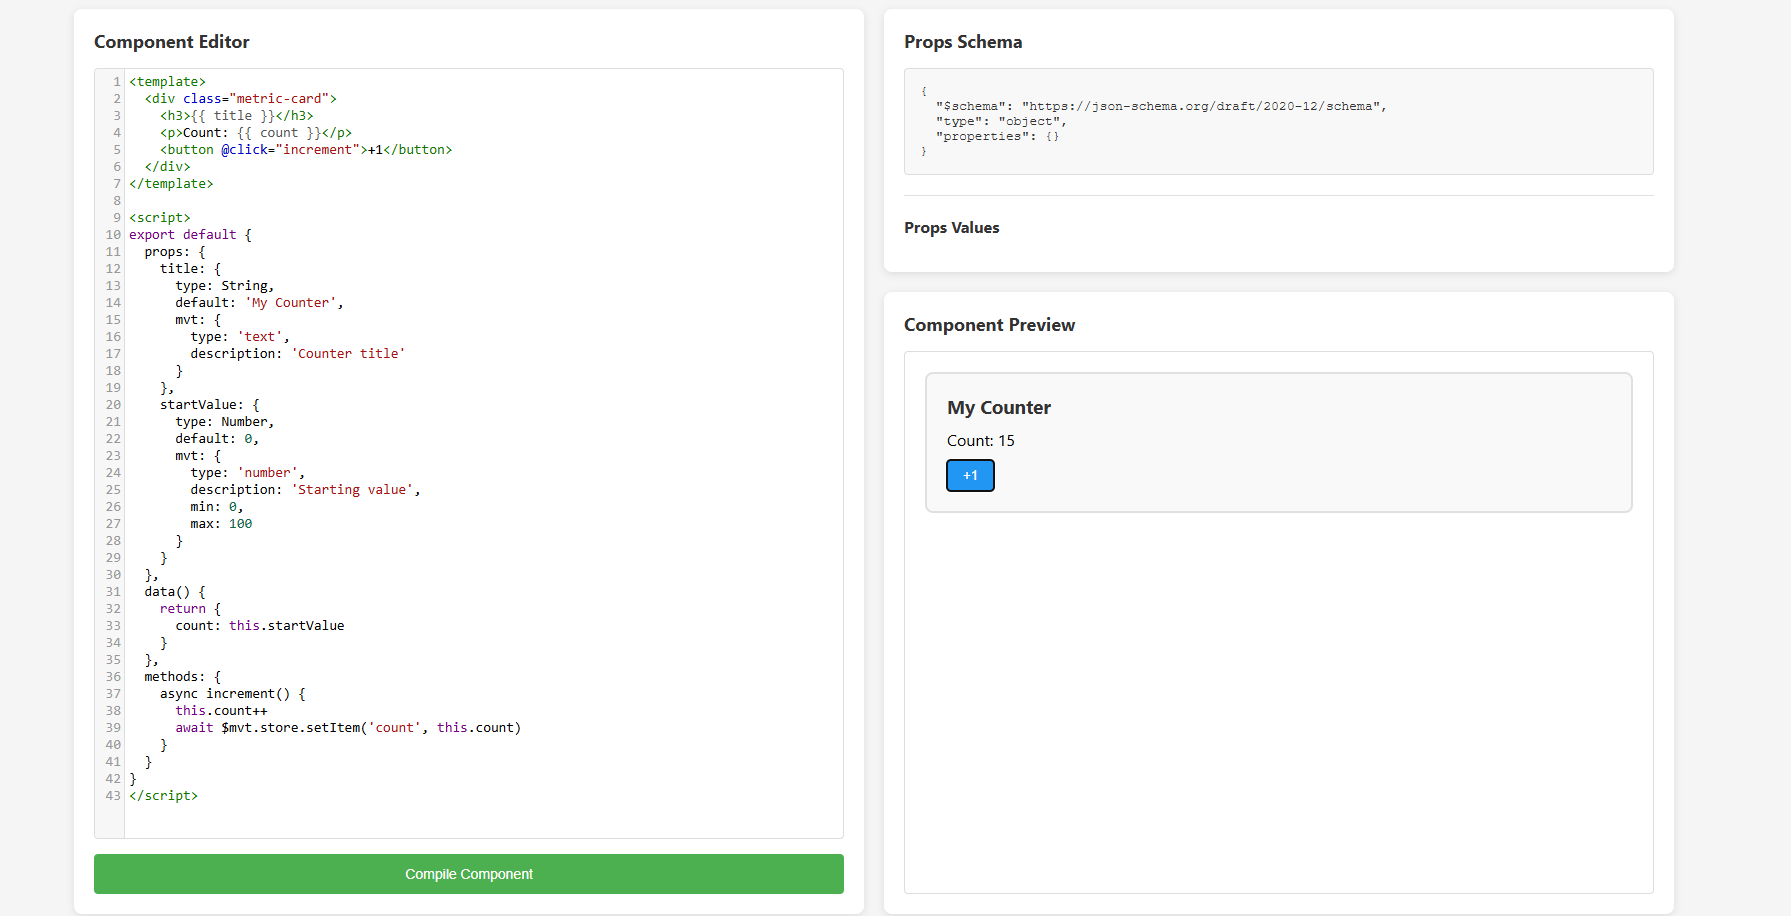
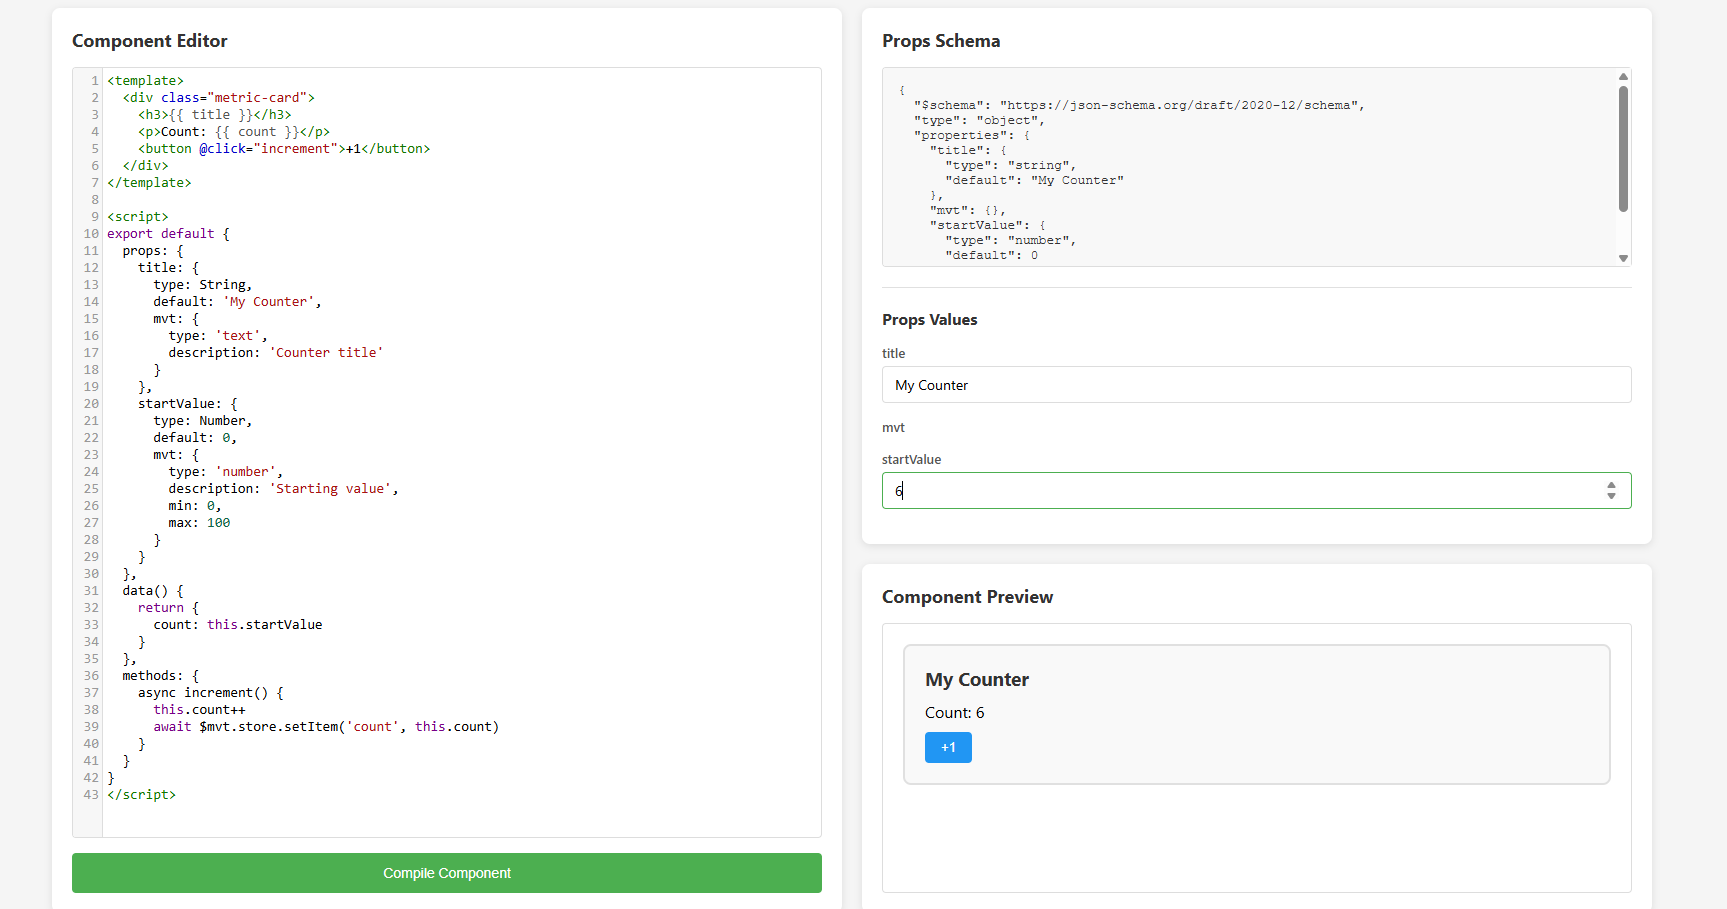
fix: Props Schema

diff --git a/src/App.vue b/src/App.vue
@@ -751,8 +751,9 @@ try {
         const scriptContent = scriptMatch[1];
 
         // Extract the props object - look for props: { ... }
-        const propsMatch = scriptContent.match(/props:\s*\{([\s\S]*?)\}(?=\s*[,}])/);
-        if (!propsMatch) {
+        // Need to match nested braces correctly
+        const propsStart = scriptContent.indexOf('props:');
+        if (propsStart === -1) {
           return {
             $schema: "https://json-schema.org/draft/2020-12/schema",
             type: "object",
@@ -760,17 +761,79 @@ try {
           };
         }
 
-        const propsString = propsMatch[1];
+        // Find the opening brace after 'props:'
+        const afterProps = scriptContent.substring(propsStart + 6);
+        const firstBrace = afterProps.indexOf('{');
+        if (firstBrace === -1) {
+          return {
+            $schema: "https://json-schema.org/draft/2020-12/schema",
+            type: "object",
+            properties: {},
+          };
+        }
+
+        // Extract content between matching braces
+        let braceCount = 0;
+        let propsEndIndex = -1;
+        const startIndex = propsStart + 6 + firstBrace + 1;
+        
+        for (let i = propsStart + 6 + firstBrace; i < scriptContent.length; i++) {
+          if (scriptContent[i] === '{') {
+            braceCount++;
+          } else if (scriptContent[i] === '}') {
+            braceCount--;
+            if (braceCount === 0) {
+              propsEndIndex = i;
+              break;
+            }
+          }
+        }
+
+        if (propsEndIndex === -1) {
+          return {
+            $schema: "https://json-schema.org/draft/2020-12/schema",
+            type: "object",
+            properties: {},
+          };
+        }
+
+        const propsString = scriptContent.substring(startIndex, propsEndIndex);
         const properties = {};
 
-        // Extract individual prop definitions
-        // Match prop name followed by colon and object definition
-        const propRegex = /(\w+):\s*\{([\s\S]*?)\}(?=\s*[,}])/g;
+        // Extract individual prop definitions using a more robust approach
+        // Split by property names (identifiers followed by colon)
+        const propRegex = /(\w+):\s*\{/g;
         let propMatch;
 
+        const matches = [];
         while ((propMatch = propRegex.exec(propsString)) !== null) {
-          const propName = propMatch[1];
-          const propDef = propMatch[2];
+          matches.push({
+            name: propMatch[1],
+            startIndex: propMatch.index + propMatch[0].length - 1
+          });
+        }
+
+        // Extract each prop definition by finding matching braces
+        for (let i = 0; i < matches.length; i++) {
+          const propName = matches[i].name;
+          let braceCount = 0;
+          let propDefEnd = -1;
+          
+          for (let j = matches[i].startIndex; j < propsString.length; j++) {
+            if (propsString[j] === '{') {
+              braceCount++;
+            } else if (propsString[j] === '}') {
+              braceCount--;
+              if (braceCount === 0) {
+                propDefEnd = j;
+                break;
+              }
+            }
+          }
+
+          if (propDefEnd === -1) continue;
+
+          const propDef = propsString.substring(matches[i].startIndex + 1, propDefEnd);
           const propSchema = {};
 
           // Extract type
